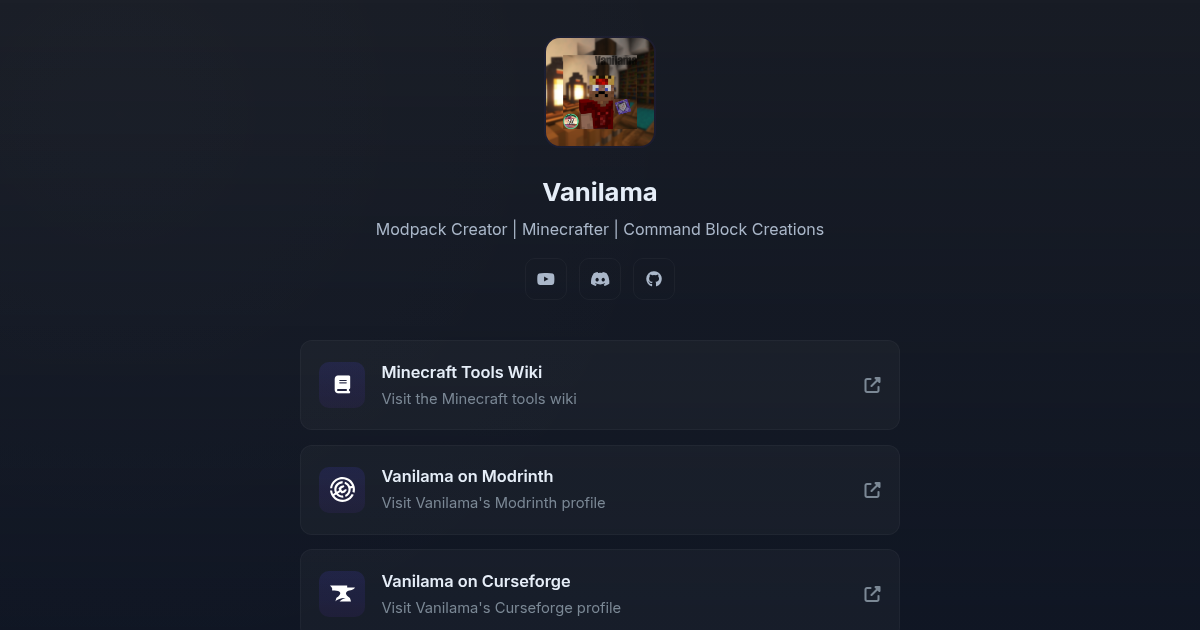
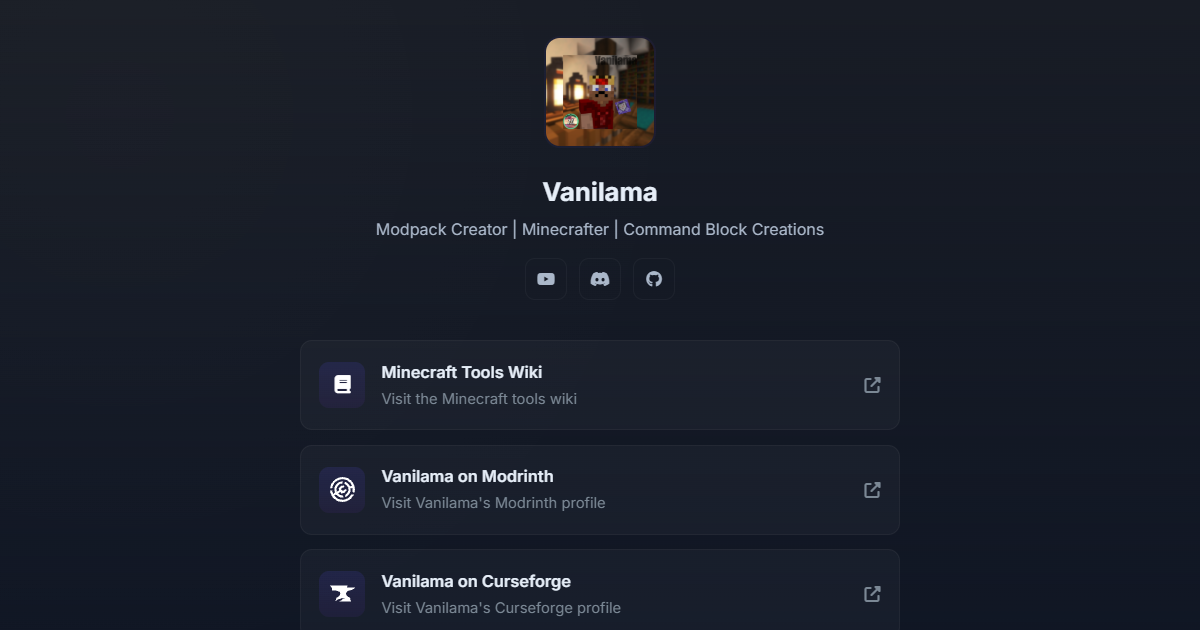
feat: use webp background and wait for it in preview generation

diff --git a/capture-preview.js b/capture-preview.js
@@ -15,6 +15,12 @@ const { pathToFileURL } = require('url');
   const filePath = path.join(__dirname, 'index.html');
   await page.goto(pathToFileURL(filePath).href, { waitUntil: 'networkidle0' });
 
+  try {
+    await page.waitForSelector('body.has-bg', { timeout: 5000 });
+  } catch (e) {
+    console.log('Timeout waiting for background to load');
+  }
+
   await page.screenshot({ path: 'preview.png' });
 
   await browser.close();
